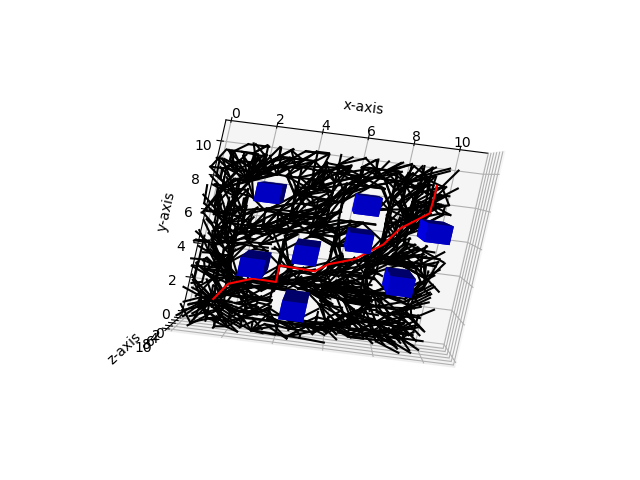
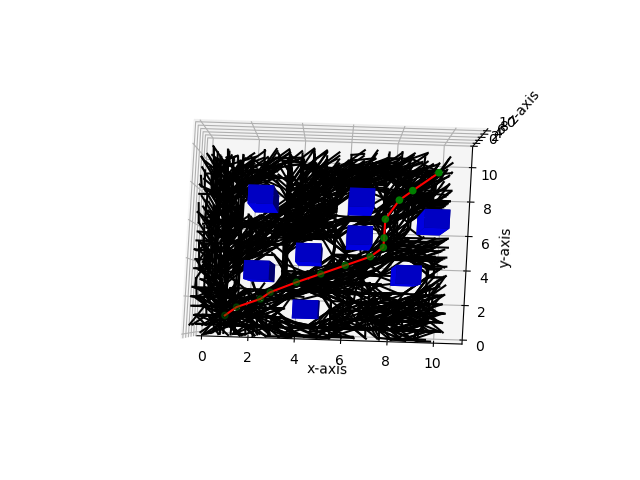
Added final optimised version of RRT star for 3D space

Changed region(s): [[0.1562, 0.1875, 0.8438, 0.7812]]

diff --git a/RRT_star_path_optimisation_final_of_final/RRT_star_opt.py b/RRT_star_path_optimisation_final_of_final/RRT_star_opt.py
@@ -1,0 +1,367 @@
+import cv2
+import numpy as np
+import time
+import math
+import random 
+from sklearn.neighbors import KDTree
+from mpl_toolkits import mplot3d
+import matplotlib.pyplot as plt
+from mpl_toolkits.mplot3d import axes3d 
+import matplotlib.pyplot as plt 
+from matplotlib import style 
+from scipy import spatial
+import copy
+from queue import PriorityQueue 
+q = PriorityQueue() 
+plt.ion()
+# style.use('ggplot') 
+length = 10
+breadth = 10
+height = 10
+fig = plt.figure()
+ax = plt.axes(projection='3d')
+
+ax.set_xlim3d(0, 11)
+ax.set_ylim3d(0,11)
+ax.set_zlim3d(0,11)
+
+c = 0.25
+
+# def obstacle_check(i,j,k):
+#     a = b = c = d = e = f = g = h = 0
+#     if(1.75 <= i <=3.25) and (2.75 <= j <= 4.25) and (0 <= k <= 10):
+#         a = 1
+#     elif (3.75 <= i <=5.25) and (0.75 <= j <= 2.25) and (0 <= k <= 10):
+#         b = 1
+#     elif (5.75 <= i <=7.25) and (4.75 <= j <= 6.25) and (0 <= k <= 10):
+#         c = 1
+#     elif (7.75 <= i <=9.25) and (2.75 <= j <= 4.25) and (0 <= k <= 10):
+#         d = 1
+#     elif (8.75 <= i <=10.25) and (6.75 <= j <= 8.25) and (0 <= k <= 10):
+#         e = 1
+#     elif (1.75 <= i <=3.25) and (6.75 <= j <= 8.25) and (0 <= k <= 10):
+#         f = 1
+#     elif (4.75 <= i <=6.25) and (3.75 <= j <= 5.25) and (0 <= k <= 10):
+#         g = 1
+#     elif (8.75 <= i <=10.25) and (5.75 <= j <= 7.25) and (0 <= k <= 10):
+#         h = 1
+
+#     if  ((a == 1) or (b == 1) or (c == 1) or (d == 1) or (e == 1) or (f == 1) or (g == 1) or (h == 1)):
+#         return True
+#     else:
+#         return False
+
+
+def obstacle_check(i,j,k):
+    a = b = c = d = e = f = g = h = 0
+    if(2-c <= i <=3+c) and (3-c <= j <= 4+c) and (0 <= k <= 10):
+        a = 1
+    elif (4-c <= i <=5+c) and (1-c <= j <= 2+c) and (0 <= k <= 10):
+        b = 1
+    elif (6-c <= i <=7+c) and (5-c <= j <= 6+c) and (0 <= k <= 10):
+        c = 1
+    elif (8-c <= i <=9+c) and (3-c <= j <= 4+c) and (0 <= k <= 10):
+        d = 1
+    elif (6-c <= i <=7+c) and (7-c <= j <= 8+c) and (0 <= k <= 10):
+        e = 1
+    elif (2-c <= i <=3+c) and (7-c <= j <= 8+c) and (0 <= k <= 10):
+        f = 1
+    elif (4-c <= i <=5+c) and (4-c <= j <= 5+c) and (0 <= k <= 10):
+        g = 1
+    elif (9-c <= i <=10+c) and (6-c <= j <= 7+c) and (0 <= k <= 10):
+        h = 1
+
+    if  ((a == 1) or (b == 1) or (c == 1) or (d == 1) or (e == 1) or (f == 1) or (g == 1) or (h == 1)):
+        return True
+    else:
+        return False
+
+def obstacle_map():
+    # defining x, y, z co-ordinates for bar position 
+    x = [2,4,6,8,6,2,4,9] 
+    y = [3,1,5,3,7,7,4,6] 
+    z = np.zeros(8) 
+
+    # size of bars 
+    dx = np.ones(8)              # length along x-axis 
+    dy = np.ones(8)              # length along y-axs 
+    dz = [10,10,10,10,10,10,10,10]   # height of bar 
+
+    # setting color scheme 
+    color = [] 
+    for h in dz: 
+        if h > 5: 
+            color.append('b') 
+        else: 
+            color.append('b') 
+
+    ax.bar3d(x, y, z, dx, dy, dz, color = color) 
+
+
+
+def boundary_check(i, j, k):
+    if (i < 0) or (j < 0) or (k < 0) or (i >= length) or (j >= breadth) or (k >= height):
+        return True
+    else:
+        return False
+
+
+
+def line_obstacle_check(j, i):
+    k = (i[0] - j[0], i[1] - j[1], i[2] - j[2])
+    k_mod = math.sqrt(k[0]**2 + k[1]**2 + k[2]**2)
+    vec = (k[0]/k_mod, k[1]/k_mod, k[2]/k_mod)
+    new_point = (j[0]+0.1*vec[0], j[1]+ 0.1*vec[1], j[2]+0.1*vec[2])
+    return new_point
+
+def cost2go(pt1, pt2):
+    dist = math.sqrt((pt2[0] - pt1[0]) ** 2 + (pt2[1] - pt1[1]) ** 2 + (pt2[2] - pt1[2]) ** 2) 
+    return dist
+
+
+def generate_seed():
+    x = round(random.uniform(0 , length)*2)/2
+    y = round(random.uniform(0 , breadth)*2)/2
+    z = round(random.uniform(0 , height)*2)/2
+#     print(x,y,z)
+    return (x,y,z)
+    
+def goalcheck_circle(x, y, z, goal_x, goal_y, goal_z):
+    if ((x - goal_x) ** 2 + (y - goal_y) ** 2 + (z - goal_z) **2 <= (0.25 ** 2)):
+        return True
+    else:
+        return False
+    
+def max_step_prop(j, i):
+    k = (i[0] - j[0], i[1] - j[1], i[2] - j[2])
+    k_mod = math.sqrt(k[0]**2 + k[1]**2 + k[2]**2)
+    vec = (k[0]/k_mod, k[1]/k_mod, k[2]/k_mod)
+    new_point = (j[0]+2*vec[0], j[1]+ 2*vec[1], j[2]+2*vec[2])
+    return new_point
+
+def neighbours(seed, r, tree):
+    results = tree.query_ball_point((seed), r)
+#     print(results)
+    nearby_points = X[results]
+#     print("radius = ", r)
+#     print("nearby_points", nearby_points)
+    return nearby_points
+
+obstacle_map()
+start = (1.0,1.0,1.0)
+goal_x, goal_y, goal_z = (9.0,9.0,9.0)
+visited_nodes = set()
+all_nodes = []
+parent_list = []
+seed_list = []
+parent_dict = {}
+cost_dict = {}
+
+visited_nodes.add(start)
+all_nodes.append(start)
+parent_dict[start] = "okay"
+cost_dict[start] = 0
+
+seed = (0,0,0)
+# print("visitednodes",visited_nodes)
+# print("all_nodes", all_nodes)
+print("\n")
+
+i = 0
+while(goalcheck_circle(goal_x, goal_y, goal_z, seed[0], seed[1], seed[2]) == False):
+#     if(i ==5):
+#         break
+
+#     seed = seeds[i]
+#     i = i+1
+#     print("\n")
+#     print("seeed = ", seed)
+    seed = generate_seed()
+#     print("generated_seed", seed)
+    if ((seed not in visited_nodes) and not obstacle_check(seed[0], seed[1], seed[2])):
+        
+#         all_nodes.insert(0, seed) 
+        X = np.asarray(all_nodes)
+        tree = spatial.KDTree(X)
+        
+        r = 1.5
+        n = (0,0,0)
+
+        while(1):
+            n = neighbours(seed, r,tree)
+#             print("\n")
+            if(n == seed).all():
+                r = r + 1
+            else:
+                break
+#         print("neighbours", n)
+        
+        
+        for pt in n:
+#             print("pt", pt)
+            pt = tuple(pt)
+            cost = cost_dict[pt]
+            cost_new = cost + cost2go(pt, seed)
+#             print("cost_new", cost_new)
+            q.put((cost_new, pt, cost))
+        
+        parent = q.get()
+        q = PriorityQueue() 
+        parent = parent[1] 
+#         print("selected_neighbour", parent)
+              
+        
+        if (cost2go(parent,seed) > 2):
+            seed = max_step_prop(parent, seed)
+            seed = (round(seed[0], 1), round(seed[1], 1), round(seed[2], 1))
+            
+            
+        par = seed
+        s = parent
+        a = 0
+        # print(s)
+        while(cost2go(par,s)>=0.1):
+            a = line_obstacle_check(s, par)
+            # print(a)
+            if obstacle_check(a[0], a[1], a[2]):
+#                 print("inside")
+#                 print("stop point", a)
+                break
+            s = a
+
+        s = (round(s[0], 1), round(s[1], 1), round(s[2], 1))
+         
+#         s = seed
+        if s not in visited_nodes:
+            neww_cost = cost2go(seed, parent) + cost_dict[parent]  
+            all_nodes.insert(0, s)
+            visited_nodes.add(s)
+            parent_dict[s] = parent 
+            cost_dict[s] = neww_cost
+            parent_list.append((parent[0], parent[1], parent[2]))
+            seed_list.append((s[0], s[1], s[2]))
+            ax.plot3D((parent[0],s[0]), (parent[1], s[1]), (parent[2], s[2]), 'black')
+                # plt.show()
+                # print("\n")
+            for nei in n:
+                nei = tuple(nei)
+                if nei != parent:
+                    print("nei", nei)
+                    print(cost_dict[nei])
+                    if cost_dict[nei] > (cost_dict[s] + cost2go(s, nei)):
+                        print("reeeeeeeeeeeeeeeeeeeeeeeeeeeeeeeeeeeeeeeeeeeewired")
+                        parent_dict[nei] = s
+                        cost_dict[nei] = cost_dict[s] + cost2go(s, nei)
+        else:
+            all_nodes.pop(0)
+            
+
+            
+            
+#         print("parent", parent)
+#         print("final_seed", s)
+#         print("\n")
+#         print("cost", cost_dict)
+        
+# print("\n")
+# print("final parent dict", parent_dict)
+# print("\n")
+# print("points", all_nodes)
+# print("\n")
+# print("visited_nodes", visited_nodes)
+# print("\n")
+# print("cost_dict", cost_dict)
+# print("\n")
+# print("Goal_Reached")
+# print("dict", parent_dict)
+
+path = []
+path.append((s[0], s[1], s[2]))
+# print("parent of goal", parent)
+while parent != 'okay':
+    temp = parent_dict.get(parent)
+    path.append(parent)
+#     print(path)
+    parent = temp
+    if parent == (start):
+        break
+path.append(start)
+print("Backtracking done - shortest path found")
+
+path = path[::-1]
+oroginal_path = path.copy()
+
+
+
+for i in range(100):
+    choice1 = random.choice(path)
+    choice2 = random.choice(path)
+    ch1 = choice1
+    ch2 = choice2
+    print("choice1", choice1)
+    print("choice2", choice2)
+                    
+    ind1 = path.index(choice1)
+    ind2 = path.index(choice2)
+    print("ind1", ind1)
+    print("ind2", ind2)
+
+    if (choice1 != choice2):
+        
+        while(cost2go(choice2, choice1)>=0.1):
+            a = line_obstacle_check(choice1, choice2)
+            print("a", a)
+            if obstacle_check(a[0], a[1], a[2]):
+                print("inside_obstacle")
+                break
+            choice1 = a
+        choice2 = ch1
+
+    if (cost2go(choice1, ch2)) < 0.2:
+        if ind1< ind2:
+            for i in range(ind1+1, ind2):
+                path.pop(i)
+        if ind2< ind1:
+            for i in range(ind2+1, ind1):
+                path.pop(i)
+
+
+
+    print("after_optimise")
+    print("choice1", choice2)
+    print("choice2", choice1)
+
+    print("\n")
+
+            
+
+    
+
+x_path = [path[i][0] for i in range(len(path))]
+y_path = [path[i][1] for i in range(len(path))]
+z_path = [path[i][2] for i in range(len(path))]
+
+ax.scatter(x_path, y_path, z_path, c='g', marker = 'o')
+ax.plot3D(x_path, y_path, z_path, "-r")
+
+
+# l = 0
+
+# while l < len(seed_list):
+#     ax.plot3D((parent_list[l][0], seed_list[l][0]), (parent_list[l][1], seed_list[l][1]), (parent_list[l][2], seed_list[l][2]),  'black')
+#     l = l + 1
+#     plt.show()
+#     plt.pause(0.000000000000000000000000000000000001)
+
+
+
+print("before", oroginal_path)
+print("after", path)
+ax.set_xlabel('x-axis') 
+ax.set_ylabel('y-axis') 
+ax.set_zlabel('z-axis') 
+plt.show()
+plt.pause(5)
+plt.savefig("output.png")
+plt.close()
+
